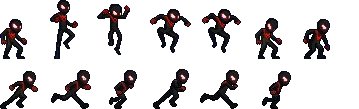
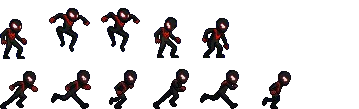
jumping sprite

Changed region(s): [[0.1226, 0.0, 0.6741, 0.5505], [0.7047, 0.1651, 0.7967, 0.5505], [0.8273, 0.1651, 0.9192, 0.5505]]

diff --git a/v2.py b/v2.py
@@ -1,6 +1,7 @@
 import pygame as py
 import random
 #setup
+# for some reason it stays in jump position
 py.init()
 windowwidth = 500
 windowheight = 500
@@ -12,7 +13,8 @@ nightbg = py.image.load("nightbg.jpg")
 nightbg2 = py.image.load("nightbg 3.jpg")
 daybg = py.image.load("day bg.png")
 foreground = py.image.load("foreground.png")
-miles = py.image.load("milesjump.png")
+miles = py.image.load("milesrun.png")
+milesjump = py.image.load("miles4.png")
 
 nightsurface = py.transform.scale_by(nightbg2,1)
 fsurface = py.transform.scale_by(foreground,2)
@@ -22,30 +24,30 @@ nightx2 = size
 #loop
 
 yspeed = 2
-rect = py.Rect(100,150,30,50)
+rect = py.Rect(100,150,30,44)
 blockpos = py.Rect(0,random.randint(300,400),random.randint(250,400),200)#left,top,width,height
 blockpos.height = windowheight-blockpos.top
 blockpos2 = py.Rect(blockpos.right+random.randint(100,300),random.randint(250,400),random.randint(250,500),200)#x distance has to be >=300
 blockpos2.height = windowheight-blockpos2.top
 blocks = [blockpos,blockpos2]
 
-scale = 1
-milesm = py.transform.scale_by(miles,scale)
-milesloc = py.Rect(0*scale,70*scale,50*scale,50*scale)
-milesnum = 0
-milesframerate = 10
-framecount = 0
+milesm = py.transform.scale_by(miles,1)
+milesj = py.transform.scale_by(milesjump,1)
 
-def animate(ypos,framewidth,numframes):
-    global framecount,milesframerate,milesnum
-    milesloc.y = ypos
-    if framecount % milesframerate ==0:
+milesjloc = py.Rect(0,0,41,44)
+milesloc = py.Rect(0,0,40,44)
+milesnum = 0
+framecount = 0
+def animate(img,framewidth,numframes,framerate):
+    global framecount,milesnum
+    #milesloc.top = ypos
+    if framecount % framerate ==0:
         if(milesnum<numframes-1):
             milesnum+=1
-            milesloc.x += framewidth
+            img.x += framewidth
         else:
             milesnum=0
-            milesloc.x =0
+            img.x =0
     framecount+=1
         
 while True:
@@ -61,29 +63,27 @@ while True:
         nightx2 -=2
         for i in range(len(blocks)):
             blocks[i].left -=15
-        animate(70,milesloc.width,6)
-
-    print(" ")
+        animate(milesloc,50,6,10)
     yspeed+=0.25
     rect.top+=yspeed
     for i in range(len(blocks)):
         if rect.bottom+1 > blocks[i].top and rect.left > blocks[i].left and rect.left < blocks[i].right:#if py.Rect.colliderect(rect,blocks[i]):
             yspeed = 0
-            rect.top = blocks[i].top-50           
+            rect.top = blocks[i].top-rect.height           
             if (key[py.K_SPACE]):
                 yspeed = -7.5
             break
-        elif rect.bottom+1 > blocks[i].top and rect.right > blocks[i].right:#elif you touch the side of the building, what happens?
-            print("edge")
-            if key[py.K_w]:
-                rect.top+=10
-    if yspeed >0:
-        animate(0,40,7)
-    else:
-        milesloc.x = 0
-        milesloc.y = 70
-        
-        
+#         elif rect.bottom+1 > blocks[i].top and rect.right > blocks[i].right:#elif you touch the side of the building, what happens?
+#             print("edge")
+#             if key[py.K_w]:
+#                 rect.top+=10
+        else:
+            animate(milesjloc,44,2,30)
+            #window.blit(milesj,(rect.x,rect.y))
+            #py.draw.rect(window,(0,255,0),rect)
+            #print("air")
+            
+    
     if blocks[0].right < 0:
         blocks.append(py.Rect(blocks[-1].right+random.randint(50,400),random.randint(250,400),random.randint(250,500),200))
         blocks[-1].height = windowheight-blocks[-1].top
@@ -94,6 +94,10 @@ while True:
     if nightx2 < -size:
         nightx2 = size
     
+    if key[py.K_SPACE] != True and key[py.K_d] != True:
+        milesloc.y = 0
+        milesloc.x = 0
+        animate(milesloc,50,1,10)
      #x,y,w,h
     #draw here 
     window.blit(nightsurface,(nightx,0))
@@ -103,6 +107,7 @@ while True:
         py.draw.rect(window,(255,0,0),blocks[i])
     #py.draw.rect(window,(0,0,0),rect)
     window.blit(milesm,(rect.x,rect.y),milesloc)
+    window.blit(milesj,(rect.x,rect.y),milesjloc)
     py.display.flip()
     clock.tick(60)
 py.quit()

diff --git a/spritetest.py b/spritetest.py
@@ -1,5 +1,4 @@
 import pygame as py
-import random
 #setup
 py.init()
 windowwidth = 500
@@ -13,7 +12,7 @@ scale = 1
 milesm = py.transform.scale_by(miles,scale)
 milesloc = py.Rect(0*scale,0*scale,40*scale,60*scale)
 milesnum = 0
-milesframerate = 30
+milesframerate = 10
 framecount = 0
 #loop
 while True:
@@ -22,7 +21,7 @@ while True:
         break
     key = py.key.get_pressed()
     if framecount % milesframerate ==0:
-        if(milesnum<5):
+        if(milesnum<4):
             milesnum+=1
             milesloc.x += 50
         else:
